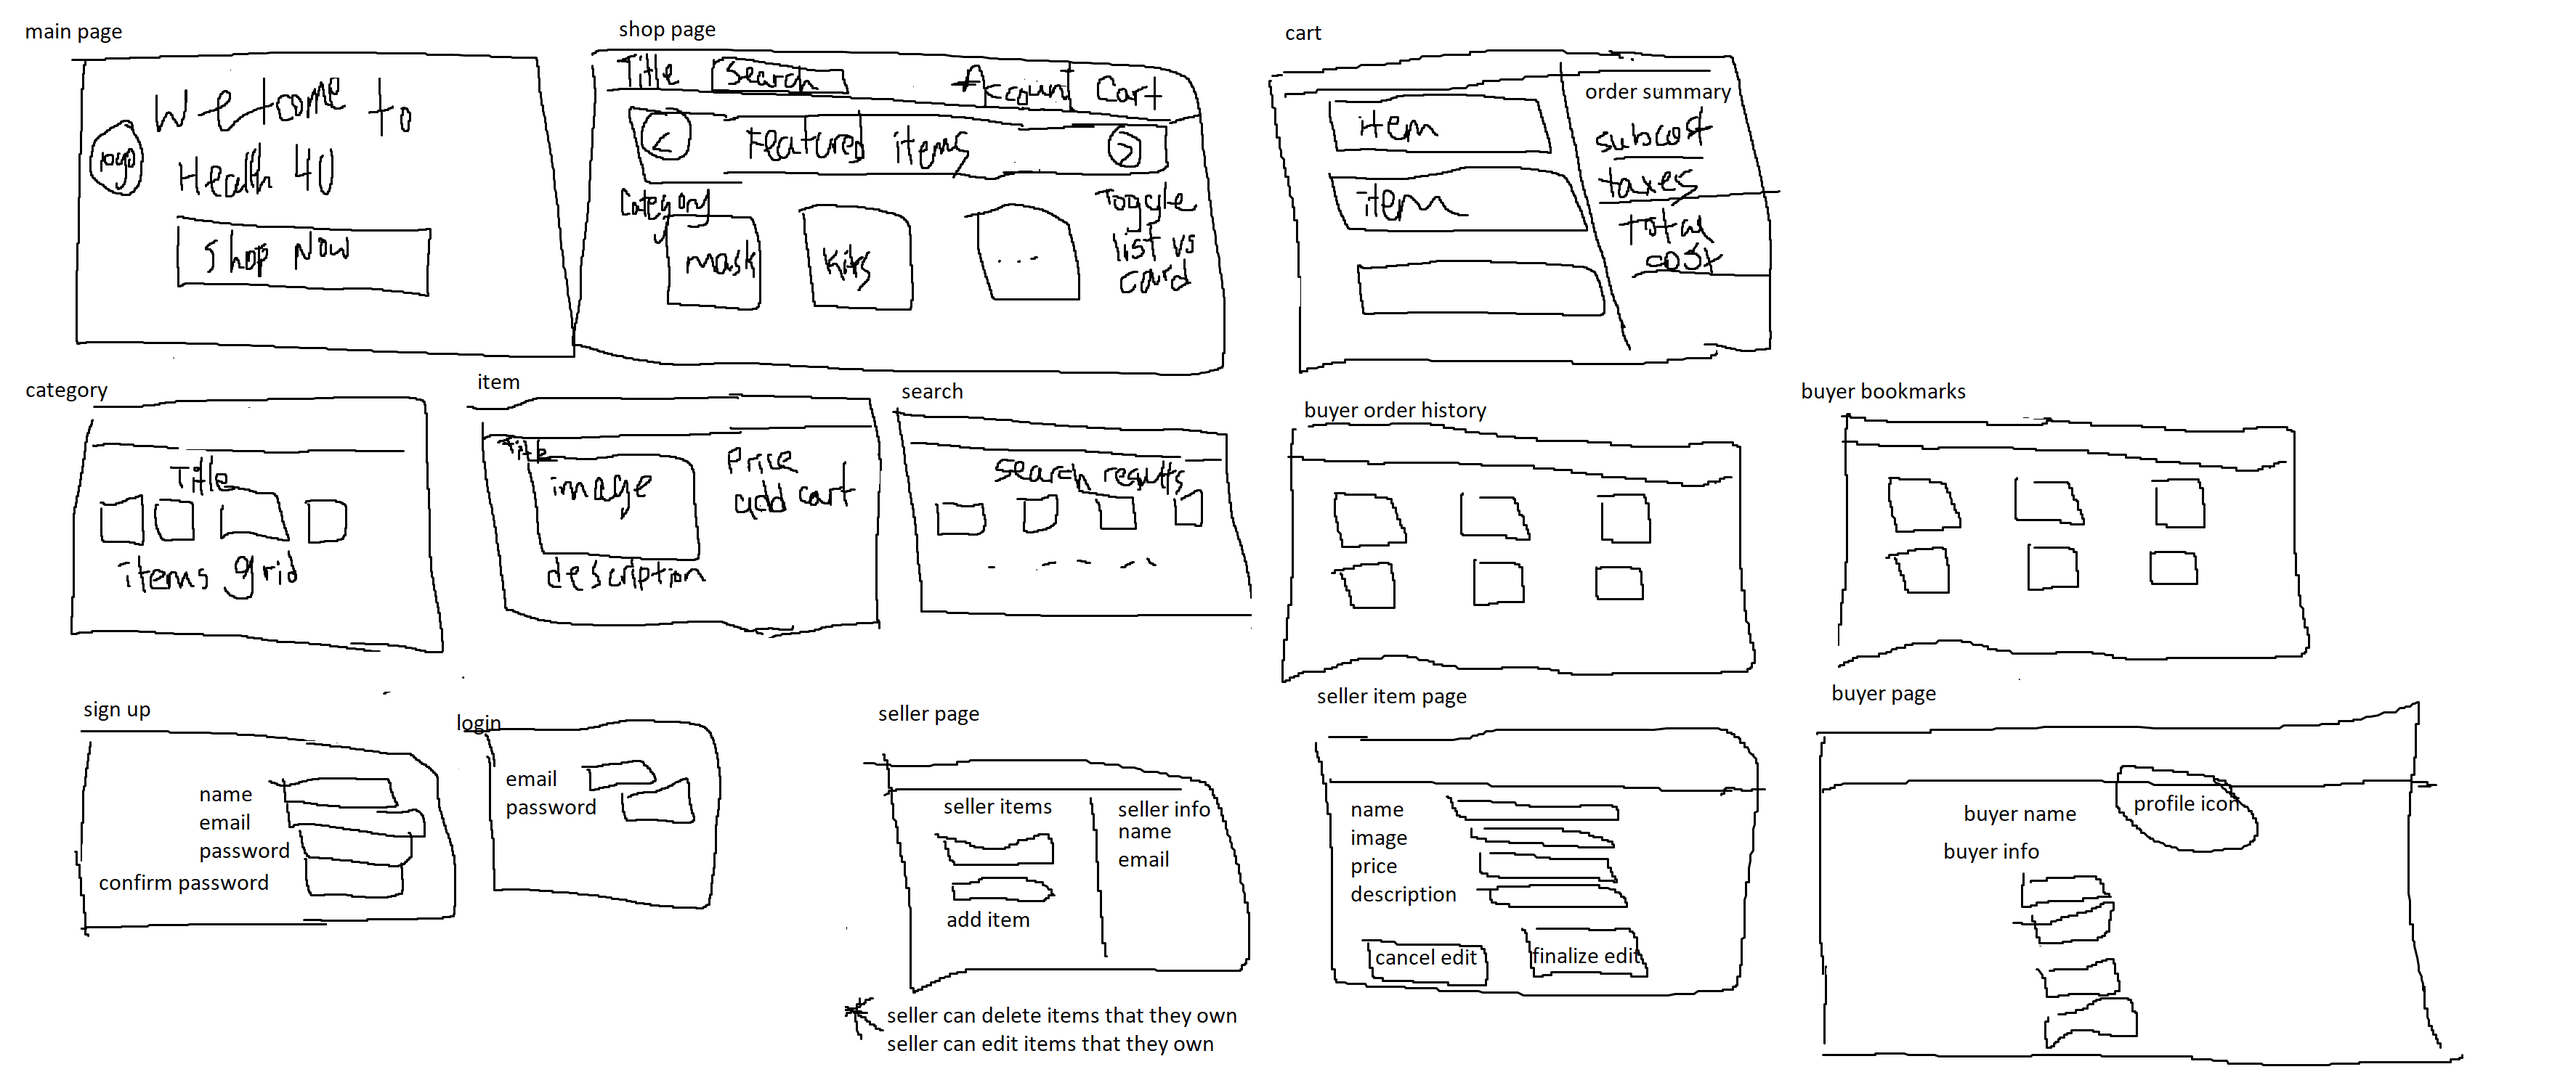
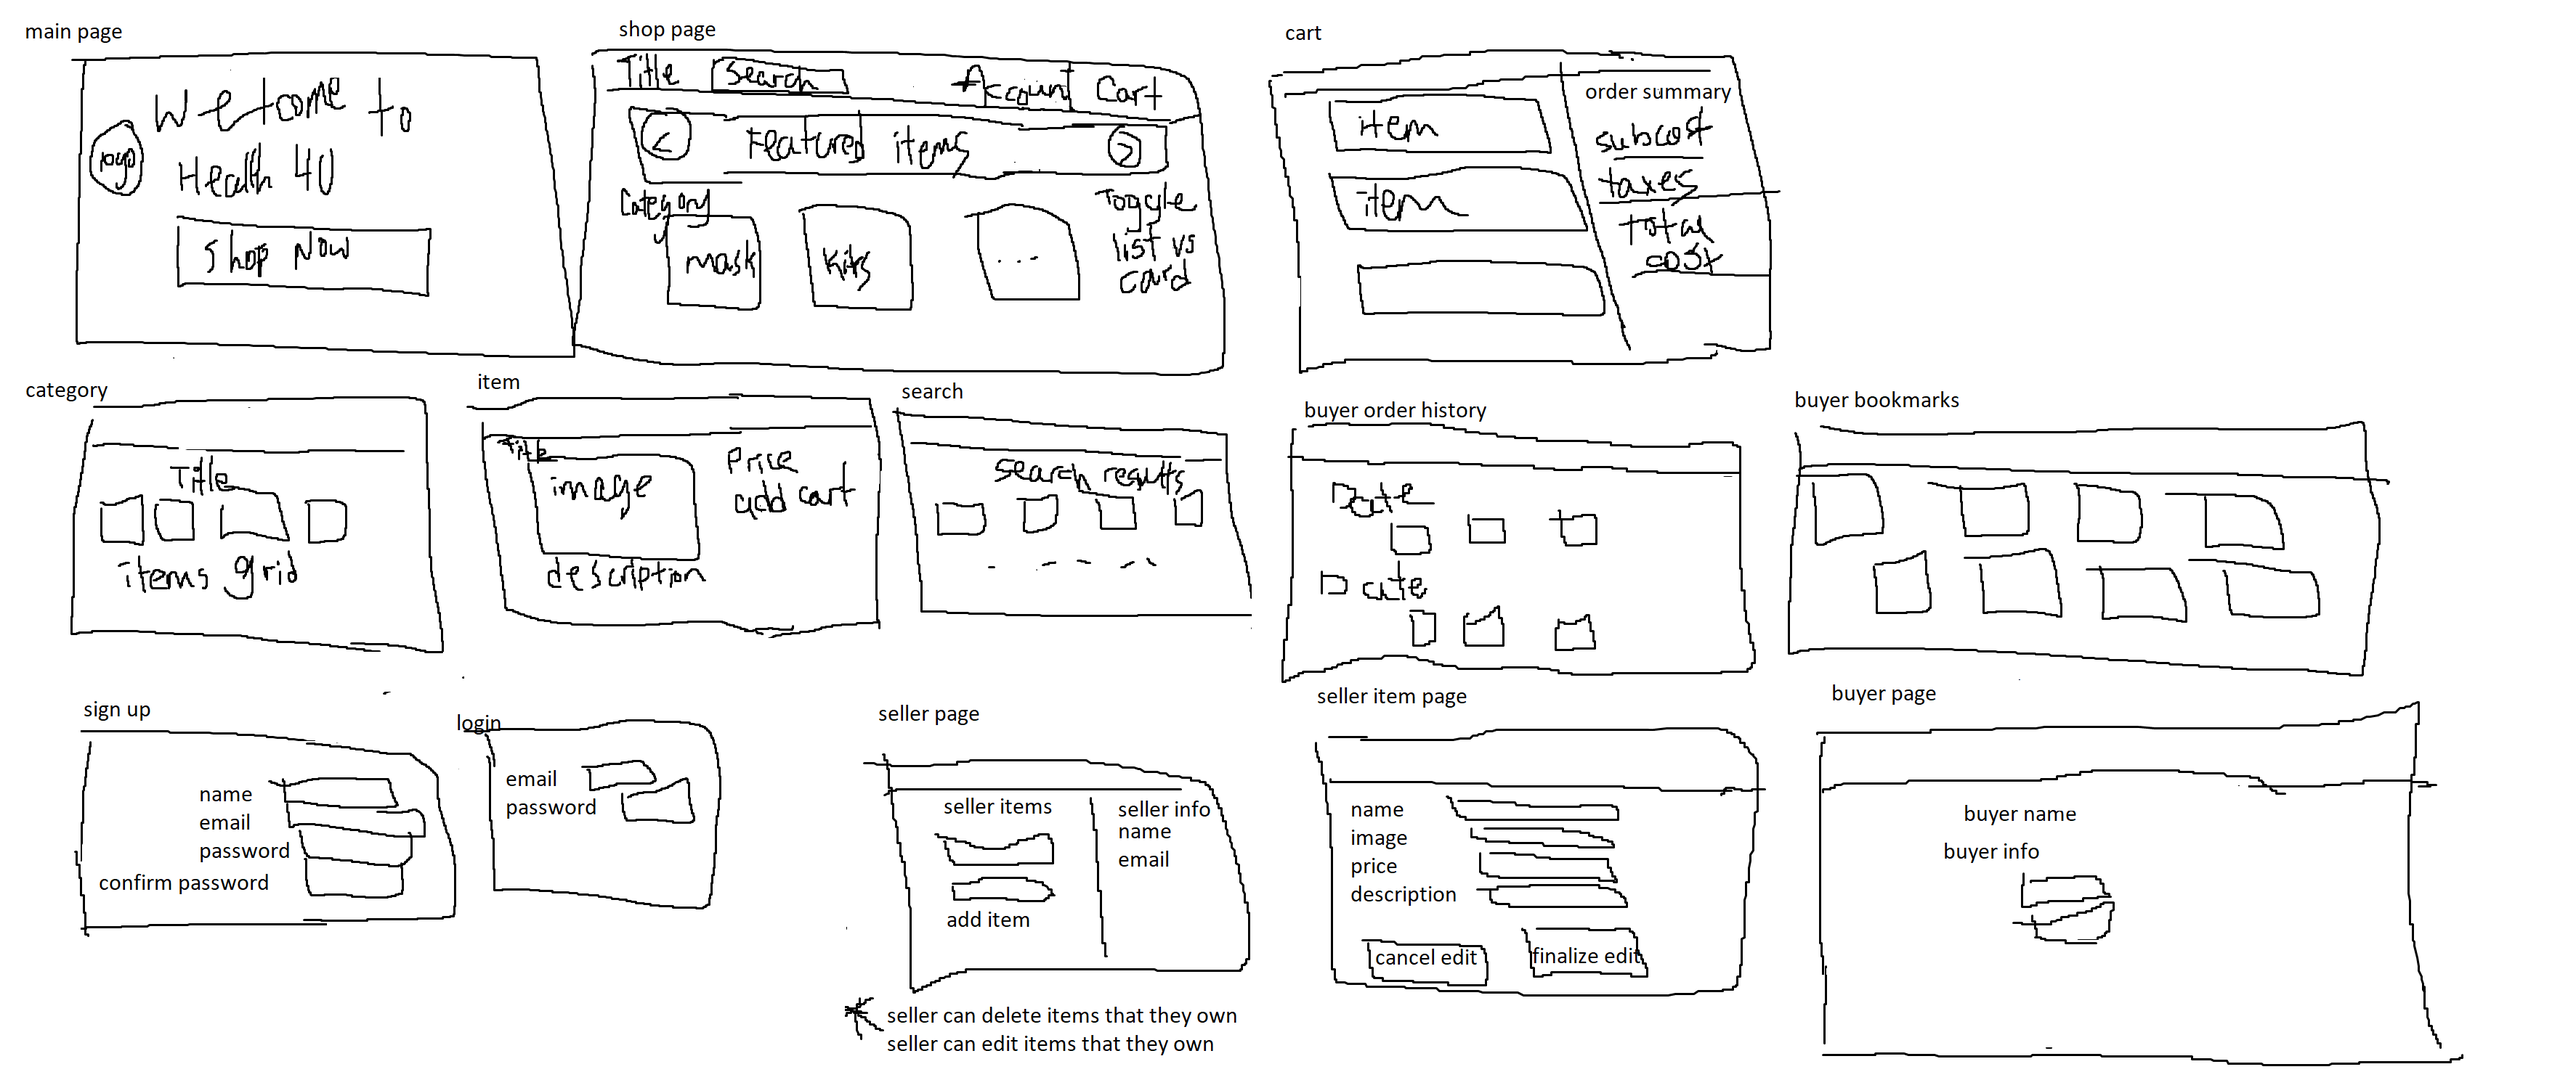
add profile page

diff --git a/frontend/src/pages/profile.js b/frontend/src/pages/profile.js
@@ -1,0 +1,168 @@
+import React, { Fragment, useState, useEffect } from "react";
+import { useParams } from "react-router-dom";
+
+import Navbar from "../components/NavBar/navbar";
+import MuiDivider from "../components/MaterialUI/mui-divider";
+import MuiBox from "../components/MaterialUI/mui-box";
+import MuiForm from "../components/MaterialUI/mui-form";
+import MuiTypography from "../components/MaterialUI/mui-typography";
+import MuiTextField, {
+  VALIDATE_REQUIRE,
+  VALIDATE_EMAIL,
+} from "../components/MaterialUI/Form/mui-textfield";
+
+import { useFormValidation } from "../components/MaterialUI/Form/form-validation";
+import { useAuthCookies } from "../shared/cookies/auth-cookies";
+import CustomButton from "../components/custom-button";
+
+const Profile = () => {
+  const { userID } = useParams();
+  const users = [
+    {
+      id: "buyerID",
+      name: "Jim Grey",
+      email: "jim.grey23@hotmail.com",
+      accountType: "buyer",
+      bookmarks: [
+        {
+          id: "1",
+          name: "Black mask",
+          category: "mask",
+          description: "Black facial mask",
+          image:
+            "https://images.unsplash.com/photo-1541963463532-d68292c34b19?ixlib=rb-1.2.1&ixid=MnwxMjA3fDB8MHxleHBsb3JlLWZlZWR8Mnx8fGVufDB8fHx8&w=1000&q=80",
+          price: 2.12,
+          rating: 2.2,
+        },
+      ],
+    },
+  ];
+
+  const { formValidationState, updateFormValidationState, verifyForm } =
+    useFormValidation(
+      [
+        {
+          name: "name",
+          value: "",
+          isValid: false,
+        },
+        {
+          name: "email",
+          value: "",
+          isValid: false,
+        },
+      ],
+      false
+    );
+
+  // this is used if the user clicks edit but doesn't edit anything and tries to save changes
+  const originalFormState = [
+    {
+      name: "name",
+      value: "",
+      isValid: false,
+    },
+    {
+      name: "email",
+      value: "",
+      isValid: false,
+    },
+  ];
+
+  const user = users.find((u) => u.id === userID);
+
+  const [editFields, setEditFields] = useState(false);
+
+  const editHandler = (e) => {
+    e.preventDefault();
+    setEditFields(true);
+  };
+
+  const { updateUserInfo } = useAuthCookies();
+  const saveEditHandler = (e) => {
+    e.preventDefault();
+    
+    const isOriginalUnchanged = formValidationState.inputs.slice().sort().join(",") === originalFormState.slice().sort().join(",")
+    if (isOriginalUnchanged || formValidationState.isValid) {
+        // allow saving if original form input has not been changed or if edited form inputs is valid
+        setEditFields(false)
+    }
+
+    if (formValidationState.isValid) {
+      const email = formValidationState.inputs.find(
+        (item) => item.name === "email"
+      );
+      updateUserInfo({
+        name: "Jason",
+        email: email.value,
+        accountType: "Buyer",
+      });
+    }
+  };
+
+  useEffect(() => {
+    verifyForm();
+  }, [formValidationState.inputs]);
+
+  return (
+    <Fragment>
+      <Navbar />
+
+      <MuiBox className="container top-bottom-padding">
+        <MuiDivider headerText={`${user.name}'s Profile`} />
+      </MuiBox>
+
+      <MuiBox className="container">
+        <MuiForm
+          formHeader={
+            <MuiTypography className="divider-header top-bottom-padding center">
+              Profile details
+            </MuiTypography>
+          }
+        >
+          <MuiBox className="grey-background container textfield-group">
+            <MuiTextField
+              label="Name"
+              validators={[VALIDATE_REQUIRE]}
+              formInput={formValidationState.inputs.find(
+                (input) => input.name === "name"
+              )}
+              updateFormValidationState={updateFormValidationState}
+              disabled={!editFields}
+              defaultValue={user.name}
+            />
+            <MuiTextField
+              label="Email"
+              validators={[VALIDATE_REQUIRE, VALIDATE_EMAIL]}
+              formInput={formValidationState.inputs.find(
+                (input) => input.name === "email"
+              )}
+              updateFormValidationState={updateFormValidationState}
+              disabled={!editFields}
+              defaultValue={user.email}
+            />
+
+            {!editFields && (
+              <CustomButton
+                className="big-btn white-inverse top-bottom-margin"
+                onClick={editHandler}
+              >
+                Edit Fields
+              </CustomButton>
+            )}
+            {editFields && (
+              <CustomButton
+                className="big-btn white-inverse top-bottom-margin"
+                onClick={saveEditHandler}
+              >
+                Save Changes
+              </CustomButton>
+            )}
+          </MuiBox>
+        </MuiForm>
+      </MuiBox>
+    </Fragment>
+  );
+};
+
+export default Profile;

diff --git a/frontend/src/pages/app.js b/frontend/src/pages/app.js
@@ -15,6 +15,7 @@ import Cart from "./cart";
 import Search from "./search";
 import SignUp from "./sign-up";
 import Login from "./login";
+import Profile from "./profile";
 
 const App = () => {
   return (
@@ -28,7 +29,7 @@ const App = () => {
           <Route path="category/:categoryID" element={<Category />} />
           <Route path="item/:itemID" element={<Item />} />
           <Route path="search" element={<Search />} />
-          <Route path="cart/:buyerID" element={<Cart />} />
+          <Route path="cart/:userID" element={<Cart />} />
         </Route>
 
         <Route path="auth" element={<Outlet />}>
@@ -36,8 +37,14 @@ const App = () => {
           <Route path="login" element={<Login />} />
         </Route>
 
+        <Route path="buyer" element={<Outlet />}>
+          <Route path="profile/:userID" element={<Profile />} />
+          <Route path="order-history/:userID" element={<Login />} />
+          <Route path="bookmarks/:userID" element={<Login />} />
+        </Route>
+
         <Route path="seller/item/:itemID" element={<LandingPage />} />
-        <Route path="seller/account/:sellerID" element={<LandingPage />} />
+        <Route path="seller/account/:userID" element={<LandingPage />} />
       </Routes>
     </Router>
   );

diff --git a/frontend/src/shared/cookies/auth-cookies.js b/frontend/src/shared/cookies/auth-cookies.js
@@ -1,4 +1,4 @@
-import React, { useEffect } from "react";
+import React from "react";
 import { useCookies } from "react-cookie";
 
 const LOGGED_IN = "loggedIn";
@@ -6,24 +6,21 @@ const USER_INFO = "userInfo";
 
 export const useAuthCookies = () => {
   const [cookies, setCookie] = useCookies([LOGGED_IN, USER_INFO]);
-
-  useEffect(() => {
-    const cookieInitVals = [
-      {
-        name: LOGGED_IN,
-        value: false,
-      },
-      {
-        name: USER_INFO,
-        value: {},
-      },
-    ];
-    for (const cookie of cookieInitVals) {
-      if (!cookies[cookie.name]) {
-        setCookie(cookie.name, cookie.value, { path: "/" });
-      }
+  const cookieInitVals = [
+    {
+      name: LOGGED_IN,
+      value: false,
+    },
+    {
+      name: USER_INFO,
+      value: {},
+    },
+  ];
+  for (const cookie of cookieInitVals) {
+    if (!cookies[cookie.name]) {
+      setCookie(cookie.name, cookie.value, { path: "/" });
     }
-  }, []);
+  }
 
   const updateUserInfo = ({name, email, accountType}) => {
     setCookie(USER_INFO, { name, email, accountType }, { path: "/" });

diff --git a/frontend/src/components/Account/logout.js b/frontend/src/components/Account/logout.js
@@ -1,21 +1,19 @@
 import React from "react";
 import { MenuItem } from "@mui/material";
-import { Link, useLocation } from "react-router-dom";
+import { Link } from "react-router-dom";
 
 import CustomButton from "../custom-button";
 import { useAuthCookies } from "../../shared/cookies/auth-cookies";
 
 const Logout = () => {
   const { logout } = useAuthCookies();
-  const location = useLocation();
-  const currentRoute = location.pathname;
 
   const logoutHandler = () => {
     logout();
   };
   return (
     <MenuItem>
-      <Link to={currentRoute} className="full-width">
+      <Link to={"/shop"} className="full-width">
         <CustomButton
           className="white-inverse full-width"
           onClick={logoutHandler}

diff --git a/frontend/src/components/MaterialUI/Form/mui-textfield.js b/frontend/src/components/MaterialUI/Form/mui-textfield.js
@@ -40,6 +40,7 @@ const MuiTextField = ({
   validators,
   formInput,
   updateFormValidationState,
+  disabled
 }) => {
   const [error, setError] = useState(false);
   const [isTouched, setIsTouched] = useState(false);
@@ -78,6 +79,7 @@ const MuiTextField = ({
       onChange={onFieldChange}
       onBlur={touchHandler}
       error={error}
+      disabled={disabled}
     />
   );
 };
